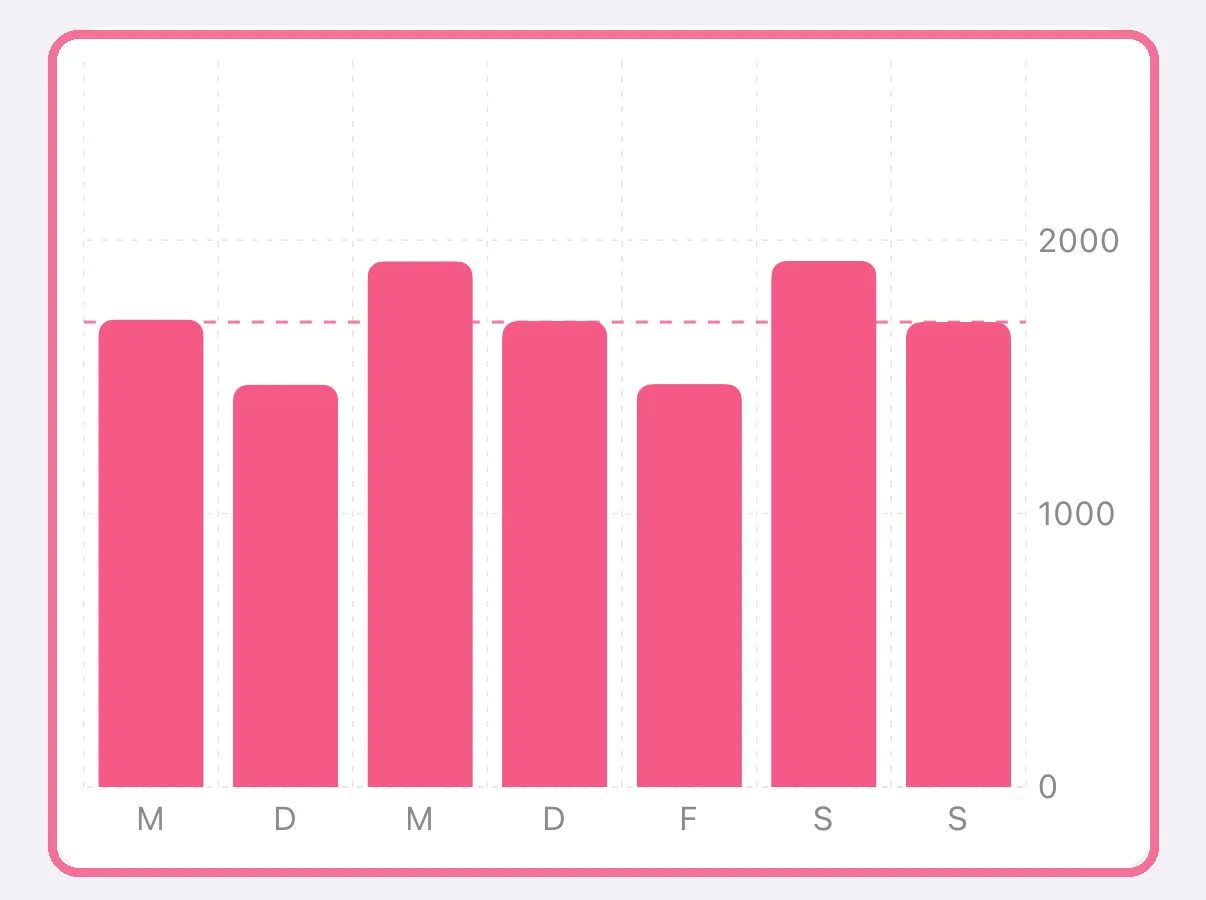
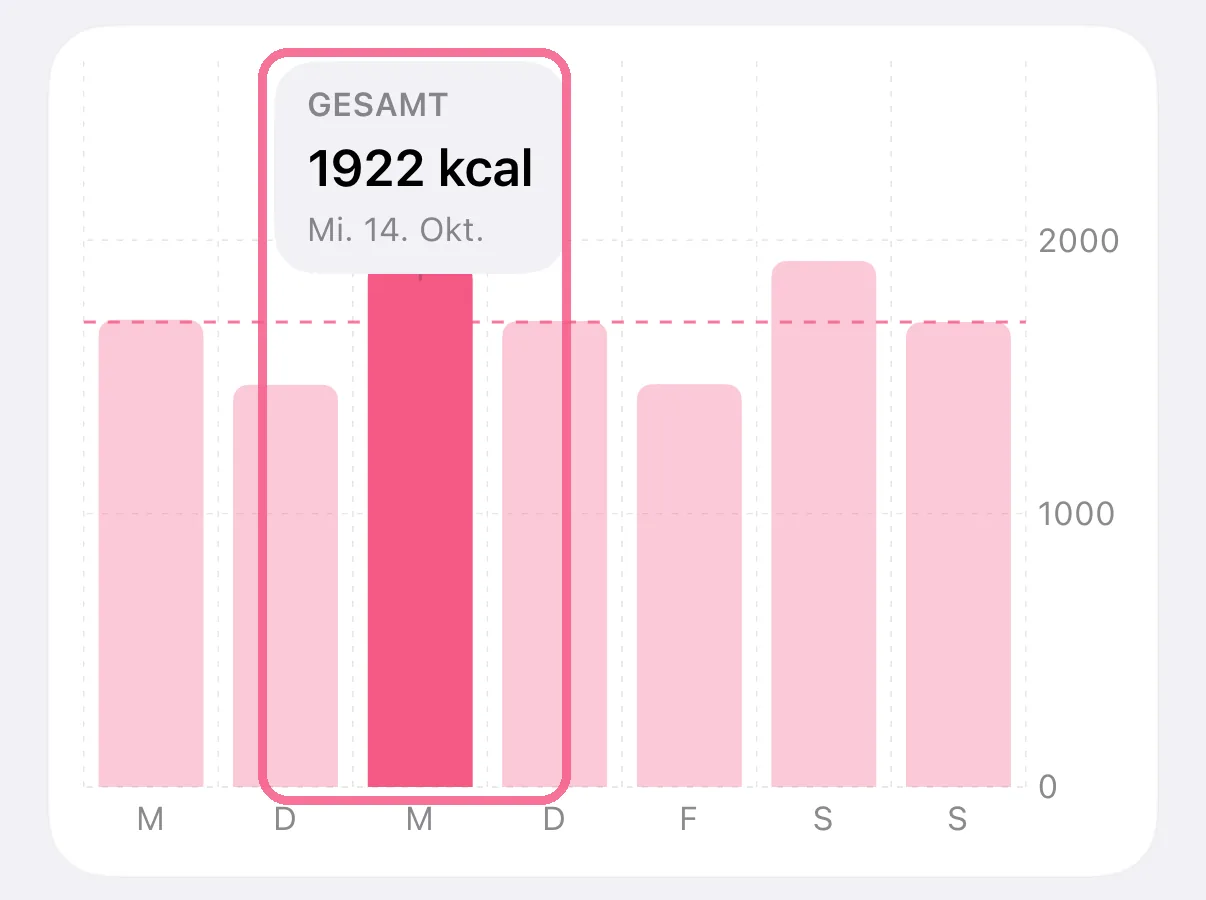
docs(help): fasting, water, weight-body and stats review fixes
Claude-Session: https://claude.ai/code/session_01Fe4ew1DFH13knXifvryP9N

diff --git a/content/help/edit-stats/de.md b/content/help/edit-stats/de.md
@@ -1,13 +1,13 @@
 ---
 id: edit-stats
 title: "Statistik-Karten hinzufügen, ausblenden und sortieren"
-short: "In der Statistik wählst du über die Bearbeitung oben rechts aus, welche Karten erscheinen und in welcher Reihenfolge. Es gibt auch Karten für einzelne Nährstoffe, etwa Ballaststoffe, Vitamine oder Koffein."
+short: "In der Statistik wählst du über die Bearbeitung aus, welche Karten erscheinen und in welcher Reihenfolge. Es gibt auch Karten für einzelne Nährstoffe, etwa Ballaststoffe, Vitamine oder Koffein."
 related:
   - stats
   - calorie-stats
   - daily-nutrients
 steps:
-  - text: "Öffne in der Statistik oben rechts die Bearbeitung."
+  - text: "Öffne in der Statistik die Bearbeitung."
     ios:
       text: "Tippe in der Statistik oben rechts auf „Bearbeiten“."
       image: ./assets/de/ios/1.webp
@@ -19,7 +19,7 @@ steps:
     ios:
       text: "Ziehe eine Karte am Griff rechts an eine andere Stelle."
       image: ./assets/de/ios/3.webp
-  - text: "Speichere deine Änderungen."
+  - text: "Schließe die Bearbeitung. Die Statistik zeigt dann deine Karten."
     ios:
       text: "Tippe oben rechts auf „Fertig“."
       image: ./assets/de/ios/4.webp

diff --git a/content/help/water-goal/de.md b/content/help/water-goal/de.md
@@ -1,16 +1,17 @@
 ---
 id: water-goal
 title: "Wasserziel und Glasgröße einstellen"
-short: "Wasserziel und Glasgröße stellst du direkt in der Karte „Wasser“ auf Heute ein, über den Stift oben rechts. In den Einstellungen gibt es dafür keinen Eintrag."
+short: "Wasserziel und Glasgröße stellst du direkt in der Karte „Wasser“ auf Heute ein, über den Stift. In den Einstellungen gibt es dafür keinen Eintrag."
 related:
   - log-water
   - drinks-water-goal
   - water-reminders
 steps:
-  - text: "Tippe auf Heute in der Karte „Wasser“ oben auf den Stift."
+  - text: "Tippe auf Heute in der Karte „Wasser“ auf den Stift."
     ios:
+      text: "Tippe auf Heute in der Karte „Wasser“ oben rechts auf den Stift."
       image: ./assets/de/ios/1.webp
-  - text: "Stell dein Tagesziel und die Glasgröße in Millilitern ein."
+  - text: "Stell dein Tagesziel und die Glasgröße ein."
     ios:
       text: "Stell mit Minus und Plus „Tagesziel (ml)“ und „Glasgröße (ml)“ ein, oder tippe auf die Zahl und gib sie ein."
       image: ./assets/de/ios/2.webp

diff --git a/content/help/water-goal/en.md b/content/help/water-goal/en.md
@@ -1,16 +1,17 @@
 ---
 id: water-goal
 title: "Set your water goal and glass size"
-short: "You set your water goal and glass size right on the “Water” card on Today, with the pencil at the top right. There is no entry for it in Settings."
+short: "You set your water goal and glass size right on the “Water” card on Today, with the pencil. There is no entry for it in Settings."
 related:
   - log-water
   - drinks-water-goal
   - water-reminders
 steps:
-  - text: "On Today, tap the pencil at the top of the “Water” card."
+  - text: "On Today, tap the pencil on the “Water” card."
     ios:
+      text: "On Today, tap the pencil at the top right of the “Water” card."
       image: ./assets/en/ios/1.webp
-  - text: "Set your daily goal and your glass size in millilitres."
+  - text: "Set your daily goal and your glass size."
     ios:
       text: "Set “Daily goal (ml)” and “Glass size (ml)” with minus and plus, or tap the number and type it."
       image: ./assets/en/ios/2.webp

diff --git a/content/help/water-reminders/de.md b/content/help/water-reminders/de.md
@@ -1,13 +1,13 @@
 ---
 id: water-reminders
 title: "Trinkerinnerungen einstellen"
-short: "In den Einstellungen unter den Mitteilungen lässt du dich ans Trinken erinnern: in festen Abständen oder smart, je nachdem, wie weit du mit deinem Wasserziel bist."
+short: "In den Einstellungen lässt du dich ans Trinken erinnern: in festen Abständen oder smart, je nachdem, wie weit du mit deinem Wasserziel bist."
 related:
   - log-water
   - water-goal
   - fasting-notifications
 steps:
-  - text: "Öffne in den Einstellungen die Mitteilungen."
+  - text: "Öffne in den Einstellungen den Bereich für Erinnerungen."
     ios:
       text: "Tippe auf Heute oben auf das Zahnrad und dann auf „Mitteilungen“."
       image: ./assets/de/ios/1.webp

diff --git a/content/help/water-reminders/en.md b/content/help/water-reminders/en.md
@@ -1,13 +1,13 @@
 ---
 id: water-reminders
 title: "Set up water reminders"
-short: "Under notifications in Settings, Intake can remind you to drink: at fixed intervals, or smartly, depending on how far along you are with your water goal."
+short: "In Settings, Intake can remind you to drink: at fixed intervals, or smartly, depending on how far along you are with your water goal."
 related:
   - log-water
   - water-goal
   - fasting-notifications
 steps:
-  - text: "Open the notifications in Settings."
+  - text: "Open the reminder settings in Settings."
     ios:
       text: "On Today, tap the gear at the top, then “Notifications”."
       image: ./assets/en/ios/1.webp

diff --git a/content/help/start-end-fast/de.md b/content/help/start-end-fast/de.md
@@ -17,4 +17,4 @@ steps:
 draft: true
 ---
 
-„Fasten beenden“ stellt bis zum nächsten geplanten Fasten auf Essen um. Auf dem iPhone startet „Fasten starten“ ein Fasten mit der Länge aus deinem Zeitplan, danach folgt die Essenszeit und dann wieder der Zeitplan. Mit iCloud-Sync zeigen deine anderen Apple-Geräte dasselbe Fasten.
+Auf dem iPhone stellt „Fasten beenden“ bis zum nächsten geplanten Fasten auf Essen um, und „Fasten starten“ startet ein Fasten mit der Länge aus deinem Zeitplan, danach folgt die Essenszeit und dann wieder der Zeitplan. Mit iCloud-Sync zeigen deine anderen Apple-Geräte dasselbe Fasten.

diff --git a/content/help/start-end-fast/en.md b/content/help/start-end-fast/en.md
@@ -17,4 +17,4 @@ steps:
 draft: true
 ---
 
-Ending a fast switches you to eating until your next scheduled fast. On iPhone, “Start Fasting” begins a fast as long as the one in your schedule, then your eating time, and after that your schedule takes over again. With iCloud sync, your other Apple devices show the same fast.
+On iPhone, “End Fasting” switches you to eating until your next scheduled fast, and “Start Fasting” begins a fast as long as the one in your schedule, then your eating time, and after that your schedule takes over again. With iCloud sync, your other Apple devices show the same fast.

diff --git a/content/help/stats/de.md b/content/help/stats/de.md
@@ -14,8 +14,9 @@ steps:
     ios:
       text: "Jede Karte zeigt die aktuelle Woche. Tippe auf eine Karte, um ihre Details zu öffnen."
       image: ./assets/de/ios/2.webp
-  - text: "Wähle oben Woche, Monat oder Jahr. Mit den Pfeilen blätterst du zu früheren Zeiträumen."
+  - text: "Wähle oben Woche, Monat oder Jahr und blättere zu früheren Zeiträumen."
     ios:
+      text: "Wähle oben Woche, Monat oder Jahr. Mit den Pfeilen blätterst du zu früheren Zeiträumen."
       image: ./assets/de/ios/3.webp
   - text: "Tippe auf einen Balken, um seinen genauen Wert zu sehen."
     ios:

diff --git a/content/help/edit-stats/en.md b/content/help/edit-stats/en.md
@@ -7,7 +7,7 @@ related:
   - calorie-stats
   - daily-nutrients
 steps:
-  - text: "In Stats, open editing at the top right."
+  - text: "In Stats, open editing."
     ios:
       text: "In Stats, tap “Edit” at the top right."
       image: ./assets/en/ios/1.webp
@@ -19,7 +19,7 @@ steps:
     ios:
       text: "Drag a card by the handle on the right to another place."
       image: ./assets/en/ios/3.webp
-  - text: "Save your changes."
+  - text: "Close editing. Stats then shows your cards."
     ios:
       text: "Tap “Done” at the top right."
       image: ./assets/en/ios/4.webp

diff --git a/content/help/log-weight/de.md b/content/help/log-weight/de.md
@@ -10,8 +10,9 @@ steps:
   - text: "Tippe auf Heute in der Karte „Gewicht“ auf die Zahl und gib dein Gewicht ein."
     ios:
       image: ./assets/de/ios/1.webp
-  - text: "Mit Minus und Plus änderst du es in Schritten von 0,1 kg."
+  - text: "Mit Minus und Plus änderst du es in kleinen Schritten."
     ios:
+      text: "Mit Minus und Plus änderst du es in Schritten von 0,1 kg."
       image: ./assets/de/ios/2.webp
   - text: "Intake speichert das Gewicht von selbst. Darunter siehst du, wie es sich verändert hat."
     ios:

diff --git a/content/help/stats/en.md b/content/help/stats/en.md
@@ -14,8 +14,9 @@ steps:
     ios:
       text: "Each card shows the current week. Tap a card to open its details."
       image: ./assets/en/ios/2.webp
-  - text: "Choose Week, Month or Year at the top. The arrows take you to earlier periods."
+  - text: "Choose Week, Month or Year at the top and page back to earlier periods."
     ios:
+      text: "Choose Week, Month or Year at the top. The arrows take you to earlier periods."
       image: ./assets/en/ios/3.webp
   - text: "Tap a bar to see its exact value."
     ios:

diff --git a/content/help/log-weight/en.md b/content/help/log-weight/en.md
@@ -10,8 +10,9 @@ steps:
   - text: "On Today, tap the number on the “Weight” card and type your weight."
     ios:
       image: ./assets/en/ios/1.webp
-  - text: "Minus and plus change it in steps of 0.1 kg."
+  - text: "Minus and plus change it in small steps."
     ios:
+      text: "Minus and plus change it in steps of 0.1 kg."
       image: ./assets/en/ios/2.webp
   - text: "Intake saves your weight by itself. Below it you see how it has changed."
     ios:
